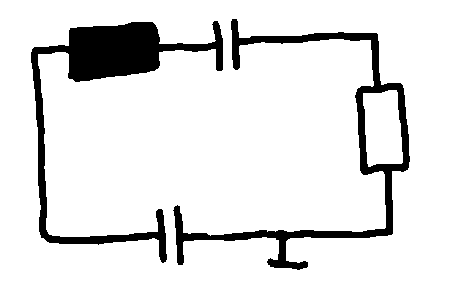
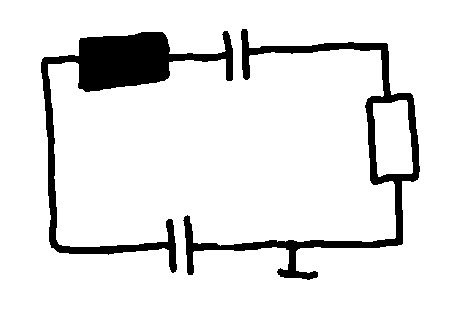
spulen entfrenen auf neue version geändert

Changed region(s): [[0.0622, 0.0604, 0.9333, 0.906]]

diff --git a/Kapitel/Kapitel-BildbearbeitungOpenCV/text.md b/Kapitel/Kapitel-BildbearbeitungOpenCV/text.md
@@ -31,16 +31,48 @@ Um zu verhindern dass Spulen entfernt werden, werden zuerst die schwarzen Fläch
 
 ## Umsetzung
 
+### Durchschnittliche Dicke einer Linie
+
+Um Spulen entfernen zu können, muss zuerst die Dicke der Linien in der Schaltung herausgefunden werden.
+
+Dafür wird in jeder Spalte jeder Pixel nacheinander überprüft. Sobald ein Pixel schwarz ist, hat man eine Linie gefunde. Ein Zähler wird ab diesem Pixel so lange erhöht bis wieder ein weißer Pixel auftritt und die gezeichnete Linie somit endet. Nach jeder Linie wird die Dicke der Linie in dieser Spalte in eine Liste gespeichert. 
+
+Beispiel einer Linie welche in der rot makierten Spalte drei Pixel breit ist.
+
+![Linien Dicke in einer Spalte](.\Dateien\lineThick.png){width=40%}
+
+Als durchschnittliche Liniendicke wird der Wert gewählt, welcher bbei den in der Liste gespeicherten Breiten am häufigsten auftritt.
+
+
 ### Entfernen von Spulen
 
-Zuerst wir eine Liste erstellt, zu der die Koordinaten von allen schwarzen Pixel im Bild hinzugefügt werden.
+Um Spulen zu entfernen wird die Funktion "erode" aus der Library OpenCV verwendet. Dabei wird eine Filtermaske über ein Bild geschoben. Ein Pixel im original Bild bleibt nur dann weiß, wenn alle Pixler unter dem Filter weiß sind.
 
-Danach wird Filter erstellt, welcher ein zweidimensionaler Array ist, der nur aus schwarzen Pixel besteht. 
+![Funktion "erode" Beispiel 1](.\Dateien\erode1.png){width=60%}
 
-Bei allen zuvor in der Liste gespeicherten Koordinaten wird nun im Bild der Schaltung überprüft, ob das Bild an diesen Koordinaten dem Filter gleicht. Sind die beiden identisch werden die Koordinaten in einer weiteren Liste abgespeichert.
+Unter dem 3x3 Filter sind schwarze und weiße Pixel somit wird der Pixel im Zentrum des Filters schwarz.
 
-Zuletzt werden im Bild alle Pixel aus der zweiten Liste mit weißen Pixel ersetzt.
+![Funktion "erode" Beispiel 2](.\Dateien\erode2.png){width=60%}
+
+Wird der Filter einen Pixel weiter nach rechts bewegt, sind alle Pixel unter dem Filter weiß, der Pixel bleibt somit weiß.
+
+Damit ist es möglich dicke Linien dünner zu machen, sowie dünne Linien zu entfernen.
+
+Wird nun das Binäre Bild invertiert, und diese Funktion mit einer Filtergröße von derr dreifachen zuvor ausgerechneten Liniendicke angewandt, bleibt nur noch die Spule zurück. 
+
+|||
+:-:|:-:
+![Invertiertes Binärbild](.\Dateien\InvBinary.png){width=40%} | ![Bild nach Funktion "erode"](.\Dateien\erosion.png){width=40%}
+
+Danach wird die Differenz zwischen dem Invertiertend Binärbild und dem "Erosion" Bild gebildet. Dadurch wird die Fläche in der Spule entfernt. Zuletzt wird das Bild wieder invertiert, um wieder auf das uzrsprüngliche Format zurückzukommen.
+
+|||
+:-:|:-:
+![Differenz zwischen den beiden Bildern](.\Dateien\InvOhneSpulen.png){width=40%} | ![ohne Spulen](.\Dateien\ohneSpulen.png){width=40%}
+
 
 ### Umwandeln des Bildes
 
 Um alle Linien in eine breite von einem Pixel umzuwandeln wird die Funktion "thinnImage()" aus der Library OpenCV aufgerufen. Diese liefert als rückgabewert das konvertierte Bild.
+
+![Thinn](.\Dateien\thinn.png){width=50%}
